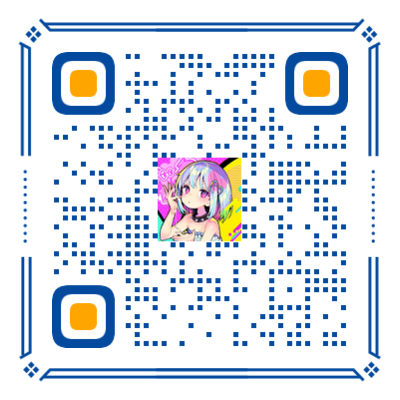
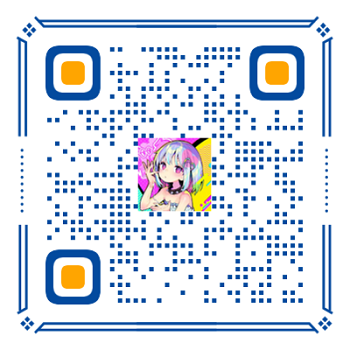
Site updated: 2021-11-13 18:12:38

diff --git a/2021/11/09/hello-world/index.html b/2021/11/09/hello-world/index.html
@@ -114,7 +114,7 @@ Qingz Essay = 我的随笔 = Qingz Notebook</title>
 
       </div>
       <div id="imgs" class="pjax">
-          <img src="https://tva3.sinaimg.cn/large/006KOSlEly8gwdl2osa7mj30zk0k0gqt.jpg">
+          <img src="https://tva3.sinaimg.cn/large/006KOSlEly8gwdl2fcjf2j30zk0k07fl.jpg">
       </div>
     </header>
     <div id="waves">
@@ -206,7 +206,7 @@ Qingz Essay = 我的随笔 = Qingz Notebook</title>
       </div>
       
       <div>
-        <img data-src="/images/alipay.jpg" alt="Qingz 支付宝">
+        <img data-src="/images/alipay1.jpg" alt="Qingz 支付宝">
         <p>支付宝</p>
       </div>
       
@@ -247,7 +247,7 @@ Qingz Essay = 我的随笔 = Qingz Notebook</title>
     <div class="item right">
       
 
-  <a href="/2021/11/09/newpapername/" itemprop="url" rel="next" data-background-image="https:&#x2F;&#x2F;tva3.sinaimg.cn&#x2F;mw690&#x2F;006KOSlEly8gwdl30r6f3j30zk0k0k1a.jpg" title="newpapername">
+  <a href="/2021/11/09/newpapername/" itemprop="url" rel="next" data-background-image="https:&#x2F;&#x2F;tva3.sinaimg.cn&#x2F;mw690&#x2F;006KOSlEly8gwdl3bzdvsj30zk0k0guh.jpg" title="newpapername">
   <span class="type">下一篇</span>
   <span class="category"><i class="ic i-flag"></i> </span>
   <h3>newpapername</h3>
@@ -339,7 +339,7 @@ Qingz Essay = 我的随笔 = Qingz Notebook</title>
 <div class="breadcrumb">
 </div>
 
-    <span><a href="/2021/11/09/hello-world/" title="Hello World">Hello World</a></span>
+    <span><a href="/2021/11/09/newpapername/" title="newpapername">newpapername</a></span>
   </li>
 
       
@@ -348,7 +348,7 @@ Qingz Essay = 我的随笔 = Qingz Notebook</title>
 <div class="breadcrumb">
 </div>
 
-    <span><a href="/2021/11/09/newpapername/" title="newpapername">newpapername</a></span>
+    <span><a href="/2021/11/09/hello-world/" title="Hello World">Hello World</a></span>
   </li>
 
   </ul>

diff --git a/2021/11/09/newpapername/index.html b/2021/11/09/newpapername/index.html
@@ -114,7 +114,7 @@ Qingz Essay = 我的随笔 = Qingz Notebook</title>
 
       </div>
       <div id="imgs" class="pjax">
-          <img src="https://tva3.sinaimg.cn/large/006KOSlEly8gwdl30r6f3j30zk0k0k1a.jpg">
+          <img src="https://tva3.sinaimg.cn/large/006KOSlEly8gwdl2osa7mj30zk0k0gqt.jpg">
       </div>
     </header>
     <div id="waves">
@@ -185,7 +185,7 @@ Qingz Essay = 我的随笔 = Qingz Notebook</title>
       </div>
       
       <div>
-        <img data-src="/images/alipay.jpg" alt="Qingz 支付宝">
+        <img data-src="/images/alipay1.jpg" alt="Qingz 支付宝">
         <p>支付宝</p>
       </div>
       
@@ -224,7 +224,7 @@ Qingz Essay = 我的随笔 = Qingz Notebook</title>
     <div class="item left">
       
 
-  <a href="/2021/11/09/hello-world/" itemprop="url" rel="prev" data-background-image="https:&#x2F;&#x2F;tva3.sinaimg.cn&#x2F;mw690&#x2F;006KOSlEly8gwdl2fcjf2j30zk0k07fl.jpg" title="Hello World">
+  <a href="/2021/11/09/hello-world/" itemprop="url" rel="prev" data-background-image="https:&#x2F;&#x2F;tva3.sinaimg.cn&#x2F;mw690&#x2F;006KOSlEly8gwdl2osa7mj30zk0k0gqt.jpg" title="Hello World">
   <span class="type">上一篇</span>
   <span class="category"><i class="ic i-flag"></i> </span>
   <h3>Hello World</h3>

diff --git a/index.html b/index.html
@@ -151,7 +151,7 @@
         
 <article class="item">
   <div class="cover">
-    <a href="/2021/11/09/hello-world/" itemprop="url" title="Hello World"><img data-src="https://tva3.sinaimg.cn/mw690/006KOSlEly8gwdl30r6f3j30zk0k0k1a.jpg"></a>
+    <a href="/2021/11/09/hello-world/" itemprop="url" title="Hello World"><img data-src="https://tva3.sinaimg.cn/mw690/006KOSlEly8gwdl2fcjf2j30zk0k07fl.jpg"></a>
   </div>
   <div class="info">
     
@@ -274,7 +274,7 @@ More info: Writing
 <div class="breadcrumb">
 </div>
 
-    <span><a href="/2021/11/09/newpapername/" title="newpapername">newpapername</a></span>
+    <span><a href="/2021/11/09/hello-world/" title="Hello World">Hello World</a></span>
   </li>
 
       
@@ -283,7 +283,7 @@ More info: Writing
 <div class="breadcrumb">
 </div>
 
-    <span><a href="/2021/11/09/hello-world/" title="Hello World">Hello World</a></span>
+    <span><a href="/2021/11/09/newpapername/" title="newpapername">newpapername</a></span>
   </li>
 
   </ul>

diff --git a/archives/2021/index.html b/archives/2021/index.html
@@ -90,7 +90,7 @@ Qingz Essay = 我的随笔 = Qingz Notebook</title>
 
       </div>
       <div id="imgs" class="pjax">
-          <img src="https://tva3.sinaimg.cn/large/006KOSlEly8gwdl2fcjf2j30zk0k07fl.jpg">
+          <img src="https://tva3.sinaimg.cn/large/006KOSlEly8gwdl27c26kj30zk0k07cf.jpg">
       </div>
     </header>
     <div id="waves">
@@ -230,7 +230,7 @@ Qingz Essay = 我的随笔 = Qingz Notebook</title>
 <div class="breadcrumb">
 </div>
 
-    <span><a href="/2021/11/09/hello-world/" title="Hello World">Hello World</a></span>
+    <span><a href="/2021/11/09/newpapername/" title="newpapername">newpapername</a></span>
   </li>
 
       
@@ -239,7 +239,7 @@ Qingz Essay = 我的随笔 = Qingz Notebook</title>
 <div class="breadcrumb">
 </div>
 
-    <span><a href="/2021/11/09/newpapername/" title="newpapername">newpapername</a></span>
+    <span><a href="/2021/11/09/hello-world/" title="Hello World">Hello World</a></span>
   </li>
 
   </ul>

diff --git a/archives/index.html b/archives/index.html
@@ -88,7 +88,7 @@ Qingz Essay = 我的随笔 = Qingz Notebook</title>
 
       </div>
       <div id="imgs" class="pjax">
-          <img src="https://tva3.sinaimg.cn/large/006KOSlEly8gwdl3bzdvsj30zk0k0guh.jpg">
+          <img src="https://tva3.sinaimg.cn/large/006KOSlEly8gwdl30r6f3j30zk0k0k1a.jpg">
       </div>
     </header>
     <div id="waves">
@@ -204,7 +204,7 @@ Qingz Essay = 我的随笔 = Qingz Notebook</title>
 <div class="breadcrumb">
 </div>
 
-    <span><a href="/2021/11/09/newpapername/" title="newpapername">newpapername</a></span>
+    <span><a href="/2021/11/09/hello-world/" title="Hello World">Hello World</a></span>
   </li>
 
       
@@ -213,7 +213,7 @@ Qingz Essay = 我的随笔 = Qingz Notebook</title>
 <div class="breadcrumb">
 </div>
 
-    <span><a href="/2021/11/09/hello-world/" title="Hello World">Hello World</a></span>
+    <span><a href="/2021/11/09/newpapername/" title="newpapername">newpapername</a></span>
   </li>
 
   </ul>

diff --git a/board/index.html b/board/index.html
@@ -87,7 +87,7 @@ Qingz Essay = 我的随笔 = Qingz Notebook</title>
 
       </div>
       <div id="imgs" class="pjax">
-          <img src="https://tva3.sinaimg.cn/large/006KOSlEly8gwdl3bzdvsj30zk0k0guh.jpg">
+          <img src="https://tva3.sinaimg.cn/large/006KOSlEly8gwdl2fcjf2j30zk0k07fl.jpg">
       </div>
     </header>
     <div id="waves">
@@ -152,7 +152,7 @@ Qingz Essay = 我的随笔 = Qingz Notebook</title>
       </div>
       
       <div>
-        <img data-src="/images/alipay.jpg" alt="Qingz 支付宝">
+        <img data-src="/images/alipay1.jpg" alt="Qingz 支付宝">
         <p>支付宝</p>
       </div>
       

diff --git a/404.html b/404.html
@@ -87,7 +87,7 @@ Qingz Essay = 我的随笔 = Qingz Notebook</title>
 
       </div>
       <div id="imgs" class="pjax">
-          <img src="https://tva3.sinaimg.cn/large/006KOSlEly8gwdl2fcjf2j30zk0k07fl.jpg">
+          <img src="https://tva3.sinaimg.cn/large/006KOSlEly8gwdl30r6f3j30zk0k0k1a.jpg">
       </div>
     </header>
     <div id="waves">

diff --git a/archives/2021/11/index.html b/archives/2021/11/index.html
@@ -91,7 +91,7 @@ Qingz Essay = 我的随笔 = Qingz Notebook</title>
 
       </div>
       <div id="imgs" class="pjax">
-          <img src="https://tva3.sinaimg.cn/large/006KOSlEly8gwdl3bzdvsj30zk0k0guh.jpg">
+          <img src="https://tva3.sinaimg.cn/large/006KOSlEly8gwdl27c26kj30zk0k07cf.jpg">
       </div>
     </header>
     <div id="waves">

diff --git a/categories/index.html b/categories/index.html
@@ -87,7 +87,7 @@ Qingz Essay = 我的随笔 = Qingz Notebook</title>
 
       </div>
       <div id="imgs" class="pjax">
-          <img src="https://tva3.sinaimg.cn/large/006KOSlEly8gwdl30r6f3j30zk0k0k1a.jpg">
+          <img src="https://tva3.sinaimg.cn/large/006KOSlEly8gwdl3bzdvsj30zk0k0guh.jpg">
       </div>
     </header>
     <div id="waves">

diff --git a/tags/index.html b/tags/index.html
@@ -87,7 +87,7 @@ Qingz Essay = 我的随笔 = Qingz Notebook</title>
 
       </div>
       <div id="imgs" class="pjax">
-          <img src="https://tva3.sinaimg.cn/large/006KOSlEly8gwdl2osa7mj30zk0k0gqt.jpg">
+          <img src="https://tva3.sinaimg.cn/large/006KOSlEly8gwdl30r6f3j30zk0k0k1a.jpg">
       </div>
     </header>
     <div id="waves">
